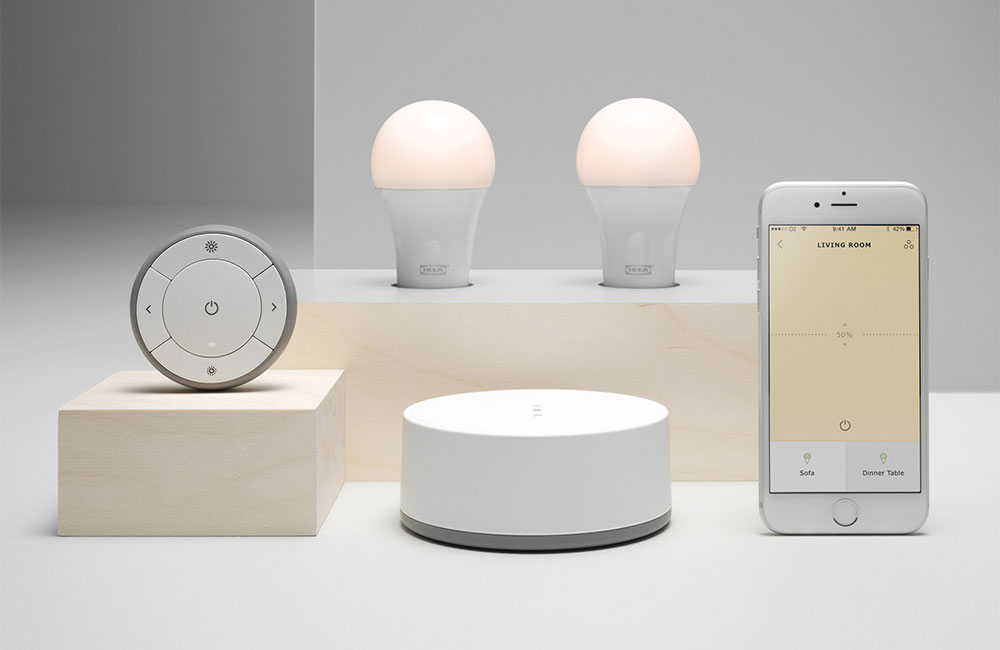
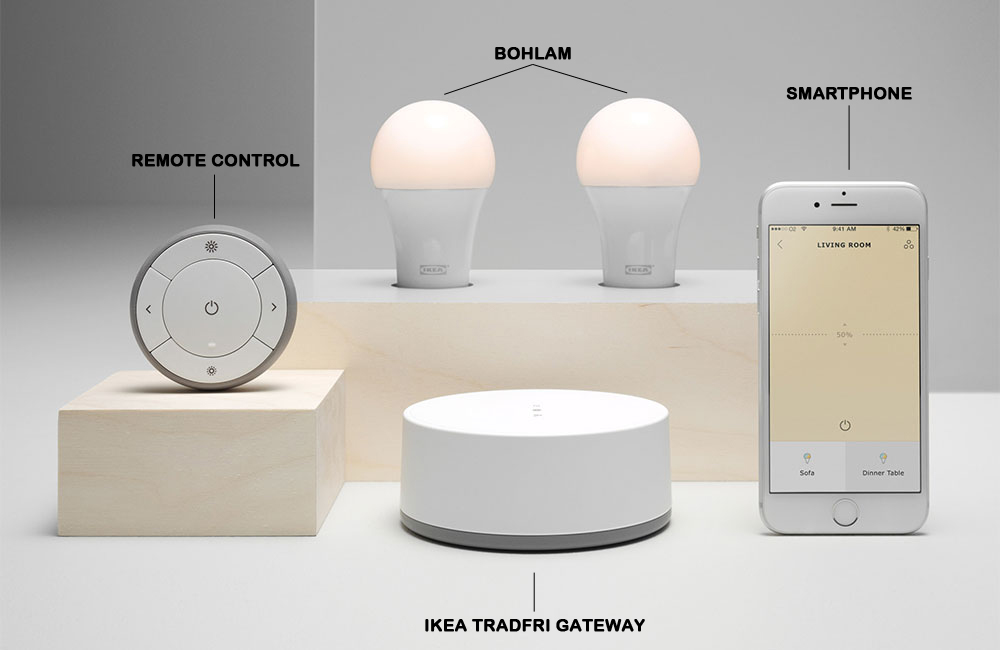
Menyelesaikan slide gambar Lampu Pintar IKEA

diff --git a/src/index.html b/src/index.html
@@ -4,7 +4,7 @@
 <head>
   <meta charset="utf-8">
   <meta name="viewport" content="width=device-width, initial-scale=1, maximum-scale=1">
-  <title>Lampu Pintar IKEA - Smart Home Product</title>
+  <title>Lampu Pintar IKEA - Tradfri</title>
   <link rel="stylesheet" type="text/css" href="build/build.css">
   <link rel="shortcut icon" href="../images/logo.png" />
   <style>
@@ -168,7 +168,8 @@
       <h2>
         Lampu Pintar IKEA <i>Tradfri</i> System
       </h2>
-      <img src="images/lampuikea.jpg" alt="" width="300px">
+      <img src="images/lampuikea.jpg" alt="" width="350px">
+      <h4>$100 USD</h4>
     </section>
 
     <!-- <section>
